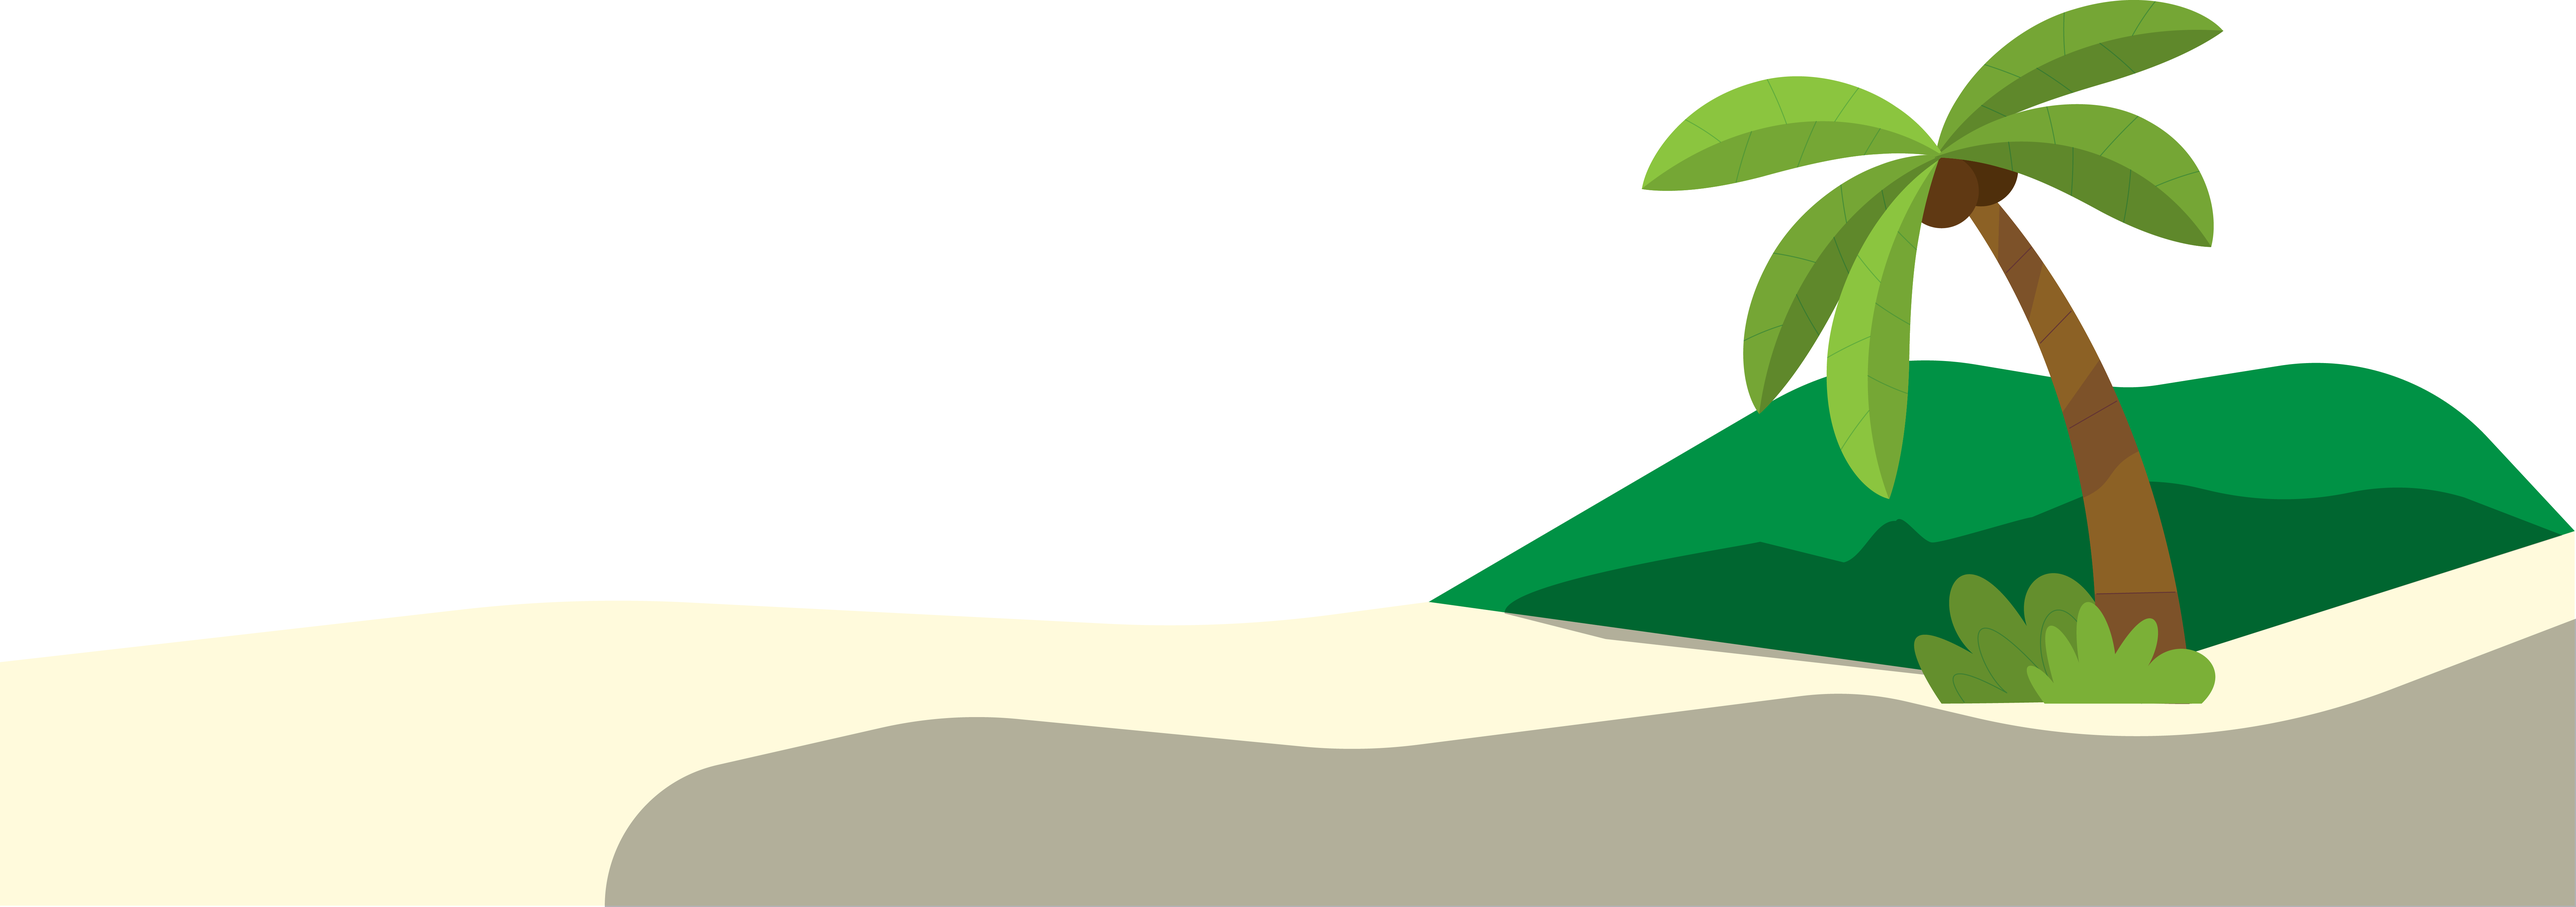
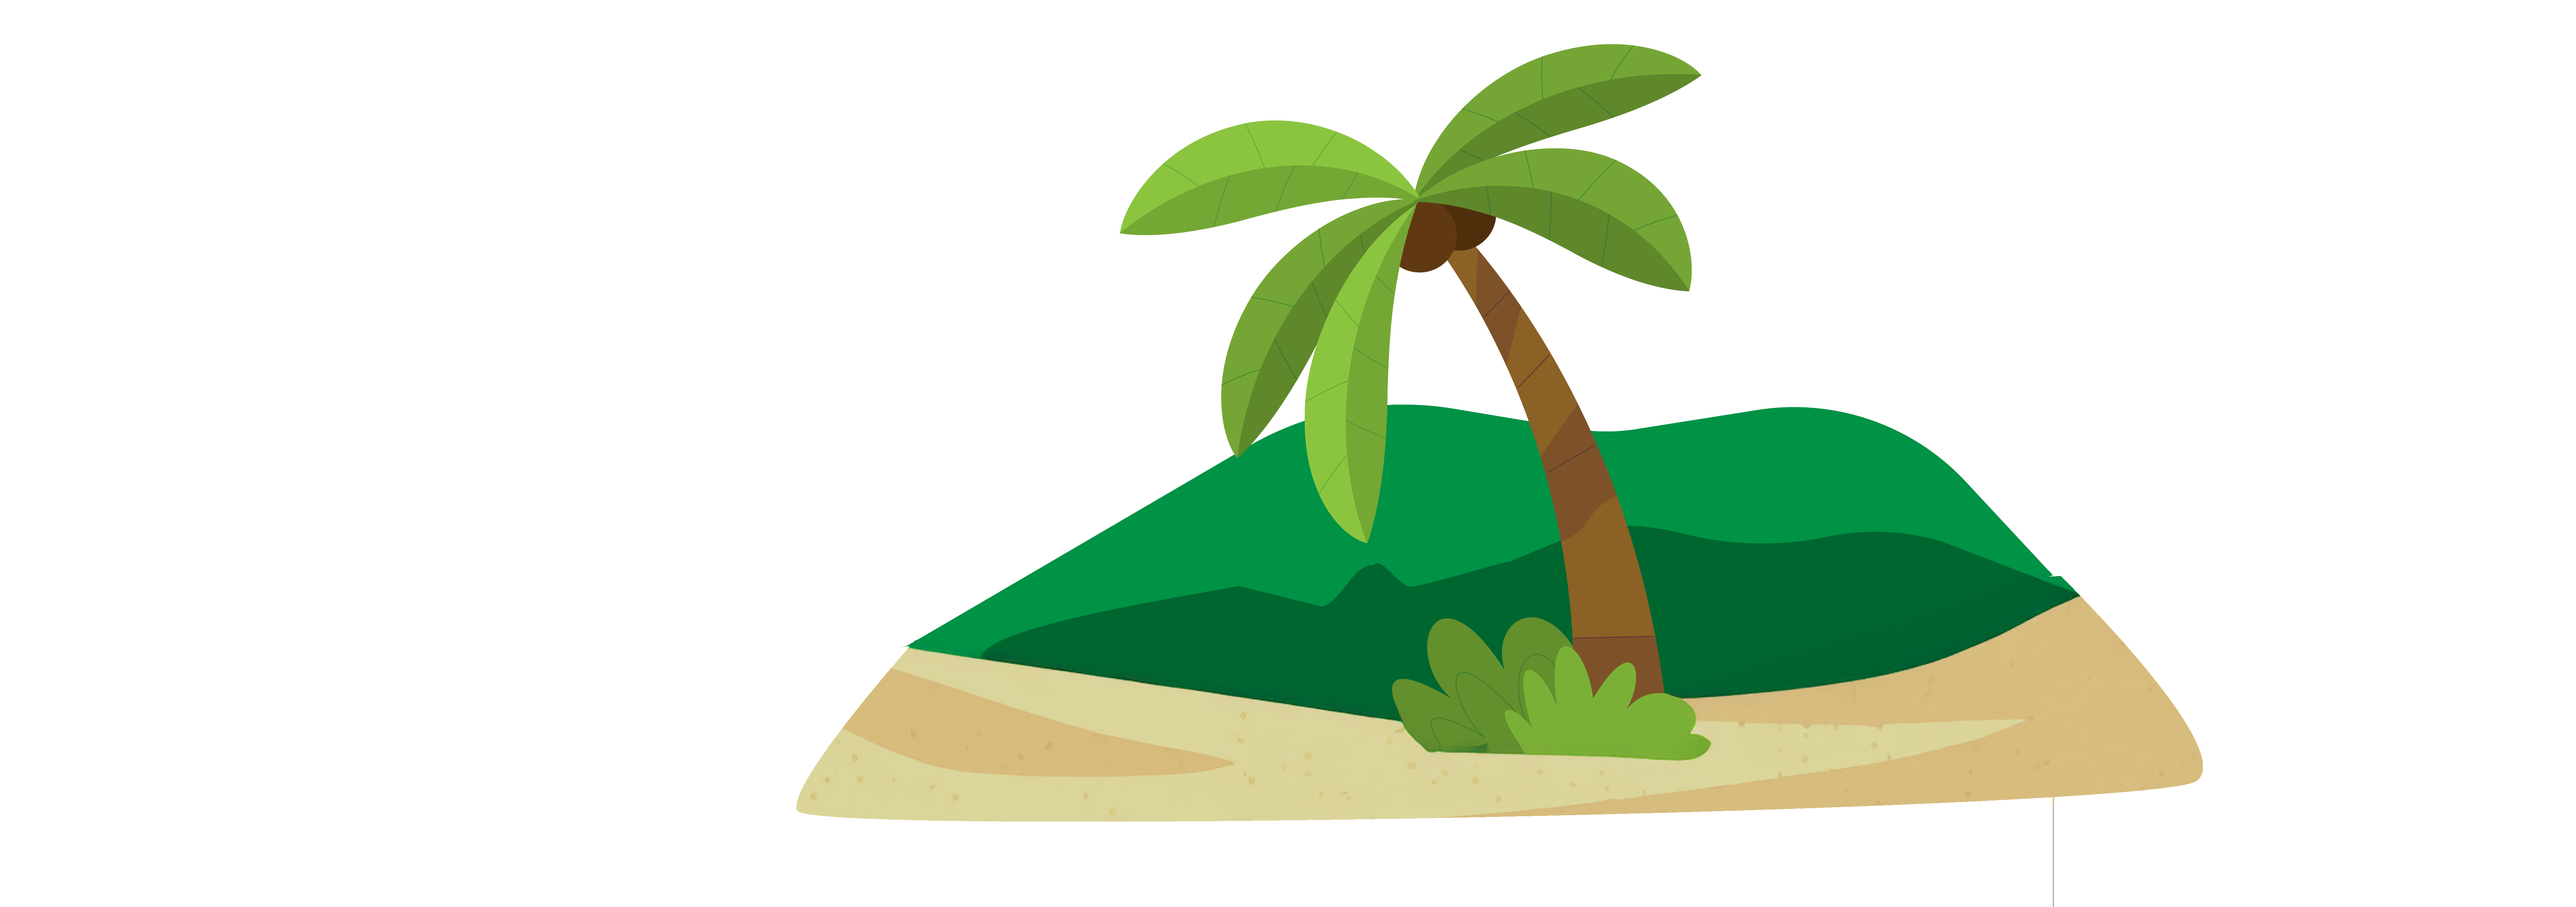
12

diff --git a/scss/index.scss b/scss/index.scss
@@ -358,9 +358,9 @@ header {
 
             .paper-ship {
                 position: absolute;
-                bottom: 0;  
-                right: 30%; 
-                width: 40%;  
+                bottom: 0.3%;  
+                right: 55%; 
+                width: 23%;  
                 z-index: 5;
                 transform-origin: center center;
                 will-change: transform;
@@ -378,17 +378,17 @@ header {
                     }
                 }
                 @include responsive(large-screens) {
-                    bottom: 10%; right: 45%;
-                    width: 20%;
+                    bottom: 12%; right: 50%;
+                    width: 14%;
                 }
             }
 
             .island {
-                bottom: -4%;
+                bottom: -2%;
                 width: 100%; right: 0%;
                
                 @include responsive(large-screens) {
-                    bottom: 6%; right: 10%;
+                    bottom: 8%; right: 10%;
                     width: 50%;
                 }
             }
@@ -2538,10 +2538,12 @@ main {
                         @include responsive(large-screens) {
                             position: absolute;
                             width: 30%;
+                            justify-content: right;
                             margin: auto;
                             z-index: 20;
                             padding-top: 20px;
                             padding-bottom: 20px;
+                            // background-color: #18267F;
                         }
                 
                         a {

diff --git a/css/index.css b/css/index.css
@@ -396,9 +396,9 @@ header .wave .img-box .bird2 {
 }
 header .wave .img-box .paper-ship {
   position: absolute;
-  bottom: 0;
-  right: 30%;
-  width: 40%;
+  bottom: 0.3%;
+  right: 55%;
+  width: 23%;
   z-index: 5;
   transform-origin: center center;
   will-change: transform;
@@ -417,19 +417,19 @@ header .wave .img-box .paper-ship {
 }
 @media only screen and (min-width: 1024px) {
   header .wave .img-box .paper-ship {
-    bottom: 10%;
-    right: 45%;
-    width: 20%;
+    bottom: 12%;
+    right: 50%;
+    width: 14%;
   }
 }
 header .wave .img-box .island {
-  bottom: -4%;
+  bottom: -2%;
   width: 100%;
   right: 0%;
 }
 @media only screen and (min-width: 1024px) {
   header .wave .img-box .island {
-    bottom: 6%;
+    bottom: 8%;
     right: 10%;
     width: 50%;
   }
@@ -2104,6 +2104,7 @@ main .main-bg .container .portfolio .po-box .box-button {
   main .main-bg .container .portfolio .po-box .box-button {
     position: absolute;
     width: 30%;
+    justify-content: right;
     margin: auto;
     z-index: 20;
     padding-top: 20px;
